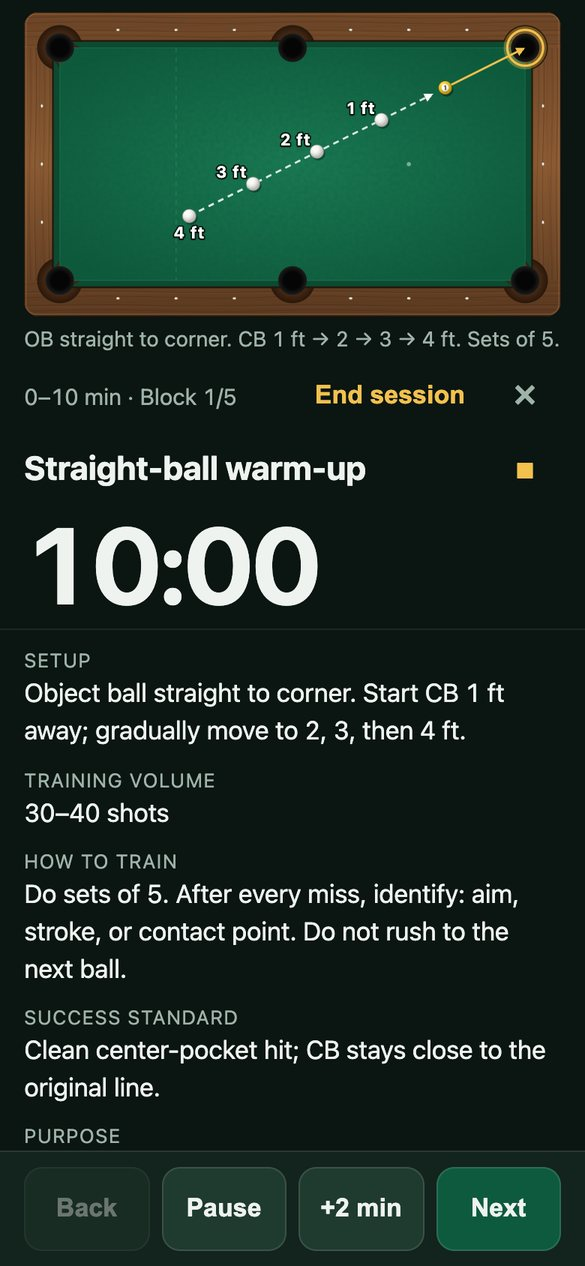
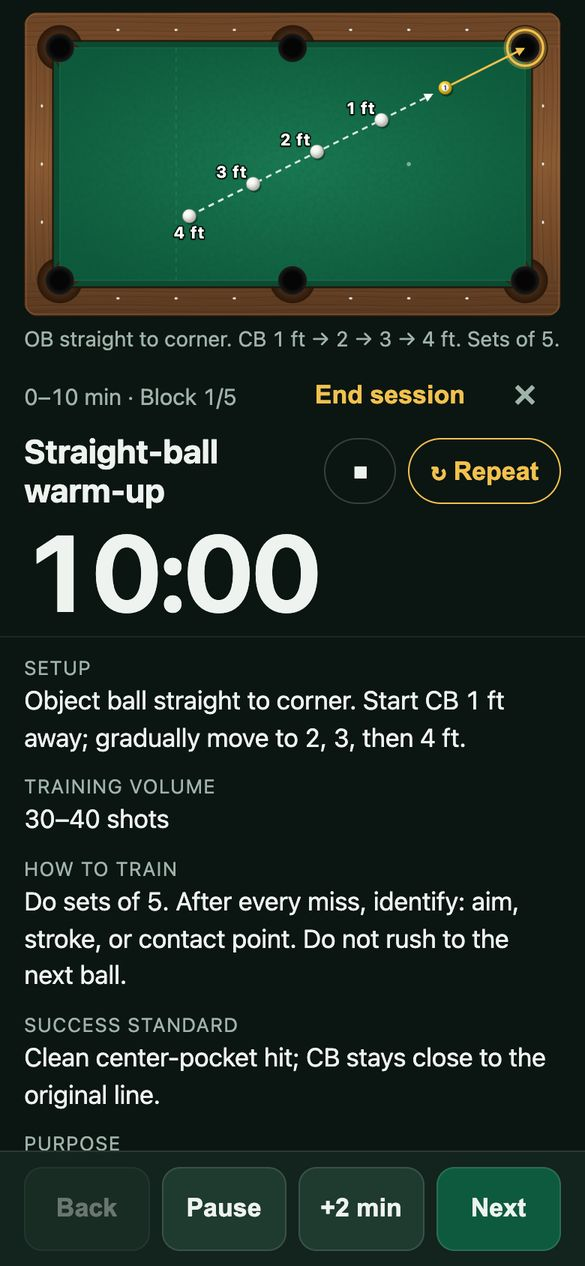
feat: labelled Repeat button to replay drill and test instructions
Replaces the small 🔊/■ toggle with a visible ↻ Repeat button that always
restarts from the beginning, plus a Stop button shown while reading.
README text and screenshots updated.

Changed region(s): [[0.0308, 0.4621, 0.9231, 0.9242], [0.0308, 0.3389, 0.6154, 0.4929], [0.7385, 0.3389, 0.9538, 0.4005]]

diff --git a/tests/ui/voice.test.tsx b/tests/ui/voice.test.tsx
@@ -31,17 +31,21 @@ async function open(hash: string, settings?: object) {
   render(<App store={store} now={() => new Date(2026, 9, 7, 9).getTime()} />);
 }
 
-test('reads each block when Start/Next enter it; Pause stops; the 🔊 button rereads', async () => {
+test('reads each block when Start/Next enter it; Pause stops; Repeat rereads from the start', async () => {
   await open('#/session/am');
   fireEvent.click(await screen.findByRole('button', { name: /^start$/i }));
   expect(said()).toHaveLength(1);
   expect(said()[0]).toMatch(/en-block-am-straight-warmup/);
   fireEvent.click(screen.getByRole('button', { name: /^next/i }));
   expect(said()[1]).toMatch(/en-block-am-stop-ladder/);
+  // Repeat restarts the clip even while it is still being read.
+  fireEvent.click(screen.getByRole('button', { name: /^repeat$/i }));
+  expect(said()[2]).toMatch(/en-block-am-stop-ladder/);
   fireEvent.click(screen.getByRole('button', { name: /stop reading/i }));
   expect(pause).toHaveBeenCalled();
-  fireEvent.click(screen.getByRole('button', { name: /read instructions aloud/i }));
-  expect(said()[2]).toMatch(/en-block-am-stop-ladder/);
+  expect(screen.queryByRole('button', { name: /stop reading/i })).toBeNull();
+  fireEvent.click(screen.getByRole('button', { name: /^repeat$/i }));
+  expect(said()[3]).toMatch(/en-block-am-stop-ladder/);
   const pauses = pause.mock.calls.length;
   fireEvent.click(screen.getByRole('button', { name: /^pause$/i }));
   expect(pause.mock.calls.length).toBeGreaterThan(pauses);
@@ -51,7 +55,7 @@ test('voice guidance off: nothing is read automatically, the button still works'
   await open('#/session/am', { voiceOn: false });
   fireEvent.click(await screen.findByRole('button', { name: /^start$/i }));
   expect(said()).toHaveLength(0);
-  fireEvent.click(screen.getByRole('button', { name: /read instructions aloud/i }));
+  fireEvent.click(screen.getByRole('button', { name: /^repeat$/i }));
   expect(said()).toHaveLength(1);
 });
 
@@ -61,6 +65,8 @@ test('test runner reads each test setup on start and on Skip', async () => {
   expect(said()[0]).toMatch(/en-test-straight/);
   fireEvent.click(screen.getByRole('button', { name: /skip test/i }));
   expect(said()[1]).toMatch(/en-test-cut/);
+  fireEvent.click(screen.getByRole('button', { name: /^repeat$/i }));
+  expect(said()[2]).toMatch(/en-test-cut/);
 });
 
 test('Settings switch saves voice guidance', async () => {

diff --git a/src/ui/components/ReadAloud.tsx b/src/ui/components/ReadAloud.tsx
@@ -2,15 +2,18 @@ import { useEffect, useState } from 'preact/hooks';
 import { t } from '../../i18n';
 import { isSpeaking, onSpeakingChange, speak, stopSpeaking, type Script } from '../../platform/speech';
 
-/** 🔊 toggle: reads `script` aloud, or stops reading if it is already speaking. */
+/** Repeat reads `script` aloud from the start (even mid-reading); Stop shows while something is being read. */
 export function ReadAloud({ script }: { script: Script }) {
   const [on, setOn] = useState(isSpeaking());
   useEffect(() => onSpeakingChange(setOn), []);
   return (
-    <button type="button" class={on ? 'runner__speak runner__speak--on' : 'runner__speak'}
-      aria-label={t(on ? 'session.stopReading' : 'session.readAloud')} aria-pressed={on}
-      onClick={() => (on ? stopSpeaking() : speak(script))}>
-      {on ? '■' : '🔊'}
-    </button>
+    <span class="runner__speak">
+      {on && (
+        <button type="button" class="runner__speak-btn" aria-label={t('session.stopReading')} onClick={stopSpeaking}>■</button>
+      )}
+      <button type="button" class={on ? 'runner__speak-btn runner__speak-btn--on' : 'runner__speak-btn'} onClick={() => speak(script)}>
+        <span aria-hidden="true">↻</span> {t('session.repeat')}
+      </button>
+    </span>
   );
 }

diff --git a/src/styles.css b/src/styles.css
@@ -312,8 +312,9 @@ h2 { font-size: 15px; margin: 0 0 12px; color: var(--muted); text-transform: upp
 }
 
 /* ---- Read aloud ---- */
-.runner__speak {
-  flex: none; min-width: 48px; min-height: 48px; padding: 0; border: 0; background: none;
-  color: var(--muted); font-size: 22px; line-height: 1;
+.runner__speak { flex: none; display: flex; gap: 8px; }
+.runner__speak-btn {
+  min-width: 48px; min-height: 44px; padding: 0 14px; border: 1px solid rgba(255, 255, 255, 0.18); border-radius: 22px;
+  background: none; color: var(--text); font-weight: 650; white-space: nowrap;
 }
-.runner__speak--on { color: var(--accent); }
+.runner__speak-btn--on { border-color: var(--accent); color: var(--accent); }

diff --git a/src/i18n/zh.ts b/src/i18n/zh.ts
@@ -84,7 +84,7 @@ export const zh: Record<keyof typeof en, string> = {
   'session.progression': '进阶',
   'session.whenToUseReducer': '何时使用缩袋器',
   'session.pause': '暂停',
-  'session.readAloud': '朗读讲解',
+  'session.repeat': '重播',
   'session.stopReading': '停止朗读',
   'session.resume': '继续',
   'session.addTime': '+2 分钟',

diff --git a/src/i18n/en.ts b/src/i18n/en.ts
@@ -82,7 +82,7 @@ export const en = {
   'session.progression': 'Progression',
   'session.whenToUseReducer': 'When to Use Reducer',
   'session.pause': 'Pause',
-  'session.readAloud': 'Read instructions aloud',
+  'session.repeat': 'Repeat',
   'session.stopReading': 'Stop reading',
   'session.resume': 'Resume',
   'session.addTime': '+2 min',

diff --git a/README.md b/README.md
@@ -57,7 +57,7 @@ Tap **Morning Session** or **Afternoon Session**, then **Start**.
 
 - The top shows the drill's table diagram. Tap it to open it full-size.
 - The big clock counts down the drill's time. **Pause**, **+2 min** and **Back** are at the bottom.
-- The drill's instructions are read aloud when it starts. Tap 🔊 to hear them again, or ■ to stop.
+- The drill's instructions are read aloud when it starts. Tap **↻ Repeat** next to the title to hear them again from the start, or ■ to stop.
 - Tap **Next** to move on to the next drill.
 
 The screen stays on while a session runs. If you leave the app, the session is kept: the Today screen shows it as *In progress* and you can continue.
@@ -87,7 +87,7 @@ Tap **Standard Test** on the Today screen, then **Start test**. For each shot ta
 | **S** | Spin / speed – wrong spin or pace |
 | **D** | Decision – wrong shot or plan |
 
-**Undo last** removes the last shot. **Skip test** moves on if you can't do one today. For the draw test, type the five measured distances.
+**Undo last** removes the last shot. **Skip test** moves on if you can't do one today. Tap **↻ Repeat** to hear the test setup again. For the draw test, type the five measured distances.
 
 Use the same setup each time: normal pockets, the same cue ball, no extra attempts.
 
@@ -116,7 +116,7 @@ Switch between **30-day plan** and **All time** at the top.
 
 - **Start date (Day 1)** of the plan.
 - **Sound**: the chime at the end of each drill.
-- **Read each drill aloud when it starts**: automatic voice instructions on or off. The 🔊 button still works when it is off.
+- **Read each drill aloud when it starts**: automatic voice instructions on or off. **↻ Repeat** still works when it is off.
 - **Language / 语言**: English or 中文.
 - **Backup**: export or import all your records (see below).
 - **Review all diagrams**: every table diagram on one page.

diff --git a/README.zh-CN.md b/README.zh-CN.md
@@ -57,7 +57,7 @@
 
 - 上方是这个环节的球台示意图，点一下可以放大。
 - 大号时钟是这个环节的倒计时。底部有 **暂停**、**+2 分钟** 和 **上一步**。
-- 每个环节开始时会自动朗读讲解。点 🔊 再听一遍，点 ■ 停止。
+- 每个环节开始时会自动朗读讲解。点标题旁的 **↻ 重播** 从头再听一遍，点 ■ 停止。
 - 点 **下一步** 进入下一个环节。
 
 训练进行时屏幕会保持常亮。中途离开 App 也没关系：「今天」页面会显示 *进行中*，点进去可以接着练。
@@ -87,7 +87,7 @@
 | **S** | 杆法/力度——加塞或力度不对 |
 | **D** | 决策——选球或线路判断错误 |
 
-**撤销上一杆** 可以删掉最后一杆。今天做不了某一项时，点 **跳过此项**。低杆测试要输入 5 次实测的拉回距离。
+**撤销上一杆** 可以删掉最后一杆。今天做不了某一项时，点 **跳过此项**。点 **↻ 重播** 可以再听一遍测试的摆放方法。低杆测试要输入 5 次实测的拉回距离。
 
 每次测试请保持相同条件：正常袋口、同一颗主球、不额外加次数。
 
@@ -116,7 +116,7 @@
 
 - **开始日期（第 1 天）**：计划从哪天开始。
 - **声音**：每个环节结束时的提示音。
-- **每个环节开始时语音讲解**：自动朗读的开关。关掉后 🔊 按钮仍然可以用。
+- **每个环节开始时语音讲解**：自动朗读的开关。关掉后 **↻ 重播** 按钮仍然可以用。
 - **Language / 语言**：English 或 中文。
 - **备份**：导出或导入全部记录（见下文）。
 - **查看所有示意图**：在一个页面里看全部球台示意图。
